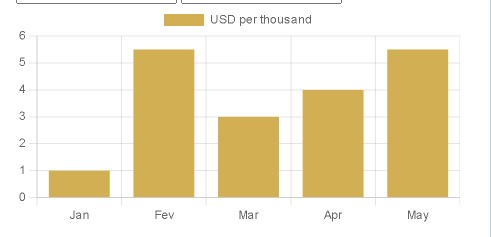
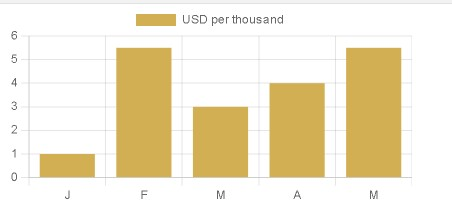
update README

diff --git a/Lib_chartJS/script.js b/Lib_chartJS/script.js
@@ -1,20 +1,48 @@
+/*
+const Line = document.getElementById('line');
+const Bar = document.getElementById('bar');
+
+Line.addEventListener('click', LineChange);
+Bar.addEventListener('click', BarChange);
+function LineChange() {
+  const Tline = 'line';
+  Income.config.type = Tline;
+  Income.update();
+
+}
+function BarChange() {
+  const Tbar = 'bar';
+  Income.config.type = Tbar;
+  Income.update();
+}
+
+const m1 = ['J','F','M'];
+const m2 = ['A','M']; */
 
 const GraphIncome = document.getElementById('myChart');
 let teste = 5.5;
 let Income = new Chart(GraphIncome , {
   type: 'bar',
   data: {
-    labels: ['Jan','Fev','Mar','Apr','May'],
+    labels: ['Jan','Fev','Mar'],
     datasets: [{
       label: "USD per thousand",
-      data: [1,teste,3,4,teste],
+      data: [1,2,3],
       backgroundColor: ['#d1af52'],
     }]
   },
   options: {
     plugins: {
+      legend: {
+        position: 'bottom',
+        align:'start',
+      }
+      
     }
   }
-  
 })
-console.log(Income.options.plugins.legend.display);//false
+
+console.log(Income.options.plugins.legend.display);
+
+
+

diff --git a/Lib_chartJS/index.html b/Lib_chartJS/index.html
@@ -16,6 +16,11 @@
     <div>
         <canvas id="myChart"></canvas>
     </div>
+    <!--
+        <hr>
+    <button class="LineChart" id="line">LineChart</button>
+    <button class="BarChart" id="bar">BarChart</button>
+    -->
    
       <script src="https://cdn.jsdelivr.net/npm/chart.js"></script>
       <script src="script.js"></script>

diff --git a/Lib_chartJS/style.css b/Lib_chartJS/style.css
@@ -8,3 +8,18 @@ body{
     width: 50%;
     margin: auto;
 }
+
+.LineChart{
+    padding: 10px;
+    background-color: #7fe1ff;
+    color: #1b02f8;
+    border: 1px solid black;
+    cursor: pointer;
+}
+.BarChart{
+    padding: 10px;
+    background-color: #044e01;
+    color: #3bf802;
+    border: 1px solid black;
+    cursor: pointer;
+}

diff --git a/Lib_chartJS/README.md b/Lib_chartJS/README.md
@@ -299,12 +299,14 @@ console.log(Income.config.type);//bar
 Claramente eu também posso passar uma váriavel para dentro do gráfico, dessa maneira:
 
 ```JS
+const m1 = ['J','F','M'];
+const m2 = ['A','M'];
 const GraphIncome = document.getElementById('GraphIncone');
 let teste = 5.5;
 let Income = new Chart(GraphIncome , {
   type: 'bar',
   data: {
-    labels: ['Jan','Fev','Mar','Apr','May'],
+     labels: m1.concat(m2),
     datasets: [{
       label: "USD per thousand",
       data: [1,teste,3,4,teste],
@@ -318,7 +320,7 @@ let Income = new Chart(GraphIncome , {
   
 })
 ```
-<img src="./imgs/variaveis.jpg" />
+<img src='./imgs/variaveis.jpg' />
 
 
 ## Options:
@@ -353,3 +355,77 @@ let Income = new Chart(GraphIncome , {
 
 console.log(Income.options.plugins.legend.display);//false
 ```
+Claramente nós podemos usar outras propriedades para mudar a legend, como exemplo:
+ - align;
+ - position;
+ - fullSize.
+E etc.....
+```JS
+ options: {
+    plugins: {
+      legend: {
+        position: 'bottom',
+        align:'start',
+      }
+      
+    }
+  }
+```
+<img src="./imgs/legend.jpg" />
+
+
+## Creating Dynamic Button to Change Chart In Chart JS
+
+Como já vimos anteriormente eu posso colocar variáveis dentro do meu Chart, mas uma coisa que não aprendemos ainda é conseguir mudar os valores do Chart já com ele aberto, ou seja, eu quero passar um valor para ele ler e mudar.
+
+Para fazer isso nós temos que utilizar o comando update:
+
+```JS
+Chartname.update();
+```
+Segue o exemplo:
+
+```JS
+const Line = document.getElementById('line');
+const Bar = document.getElementById('bar');
+
+Line.addEventListener('click', LineChange);
+Bar.addEventListener('click', BarChange);
+function LineChange() {
+  const Tline = 'line';
+  Income.config.type = Tline;
+  Income.update();
+
+}
+function BarChange() {
+  const Tbar = 'bar';
+  Income.config.type = Tbar;
+  Income.update();
+}
+
+const m1 = ['J','F','M'];
+const m2 = ['A','M'];
+
+const GraphIncome = document.getElementById('myChart');
+let teste = 5.5;
+let Income = new Chart(GraphIncome , {
+  type: 'bar',
+  data: {
+    labels: m1.concat(m2),
+    datasets: [{
+      label: "USD per thousand",
+      data: [1,teste,3,4,teste],
+      backgroundColor: ['#d1af52'],
+    }]
+  },
+  options: {
+    plugins: {
+    }
+  }
+  
+})
+```
+<img src="./imgs/BarChart.jpg" />
+
+<img src="./imgs/LineChart.jpg" />
+
